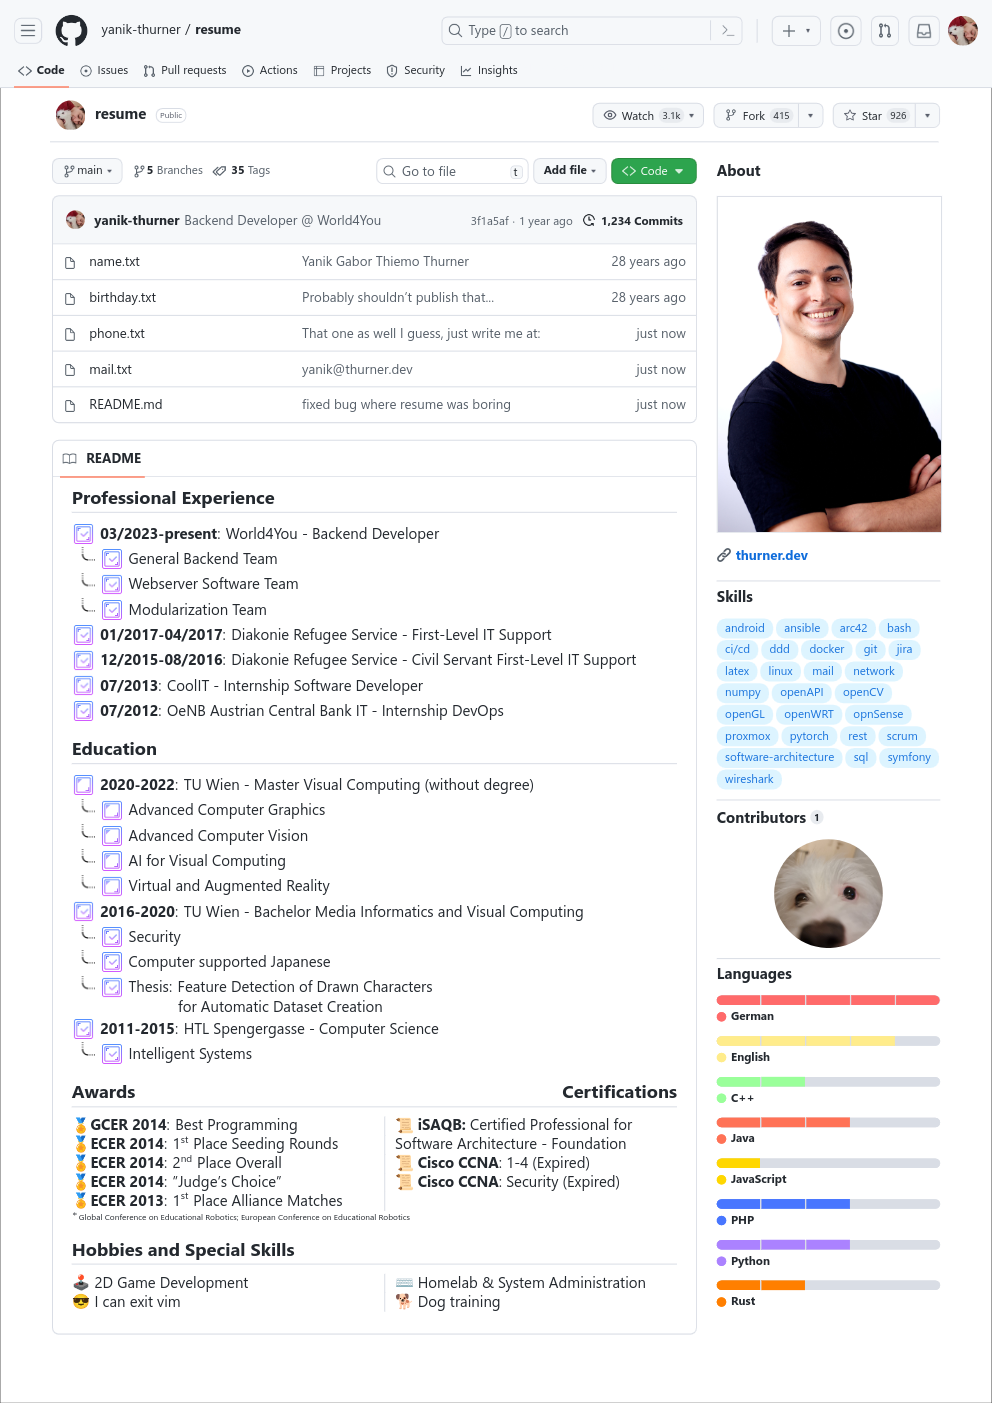
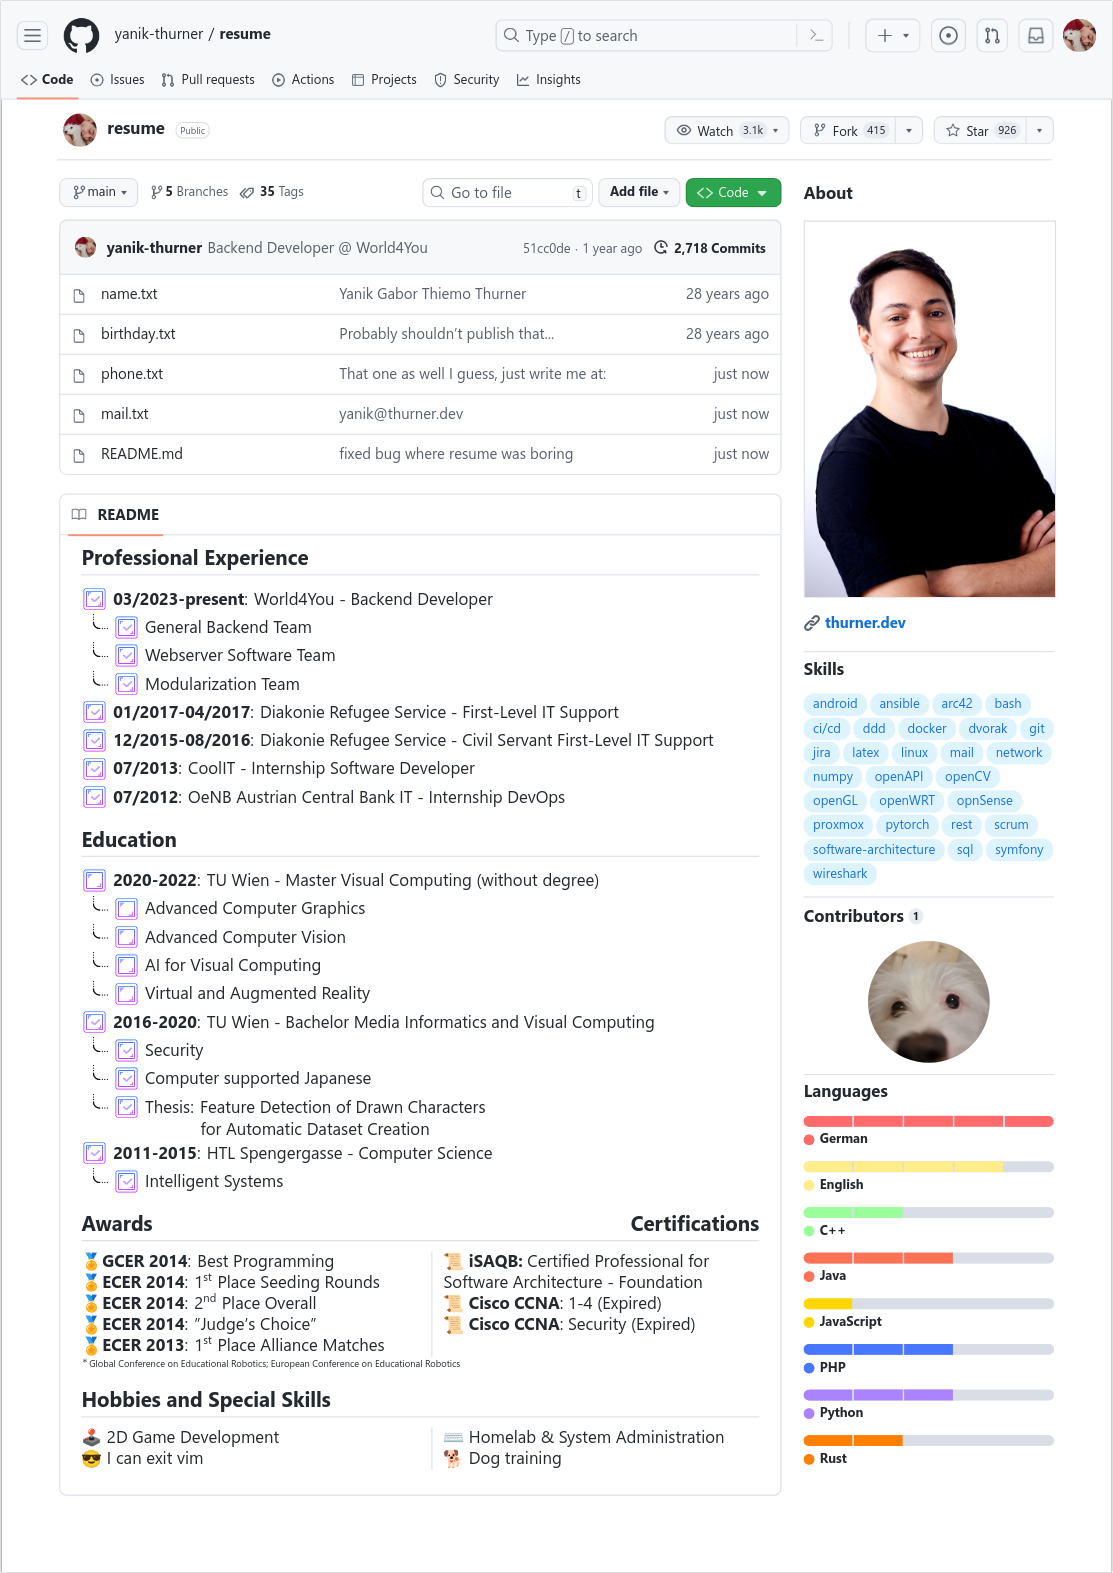
updated hash, commit count and skills

diff --git a/main.tex b/main.tex
@@ -12,7 +12,7 @@
 \maketitle
 \makebody{
 \filetable{
-    \filetableHeader{\getprofilepicture}{yanik-thurner}{Backend Developer @ World4You}{3f1a5af}{1 year ago}{1,234}
+    \filetableHeader{\getprofilepicture}{yanik-thurner}{Backend Developer @ World4You}{51cc0de}{1 year ago}{2,718}
 }{
     \filetableEntry{file.png}{name.txt}{Yanik Gabor Thiemo Thurner}{28 years ago}
     \filetableEntry{file.png}{birthday.txt}{Probably shouldn't publish that...}{28 years ago}
@@ -75,6 +75,7 @@
         \sBubble{ci/cd}[https://de.wikipedia.org/wiki/CI/CD]
         \sBubble{ddd}[https://wikipedia.org/wiki/Domain-driven_Design]
         \sBubble{docker}[https://docs.docker.com/engine/]
+        \sBubble{dvorak}[https://en.wikipedia.org/wiki/Dvorak_keyboard_layout]
         \sBubble{git}[https://git-scm.com/]
         \sBubble{jira}[https://www.atlassian.com/software/jira]
         \sBubble{latex}[https://www.latex-project.org/]
